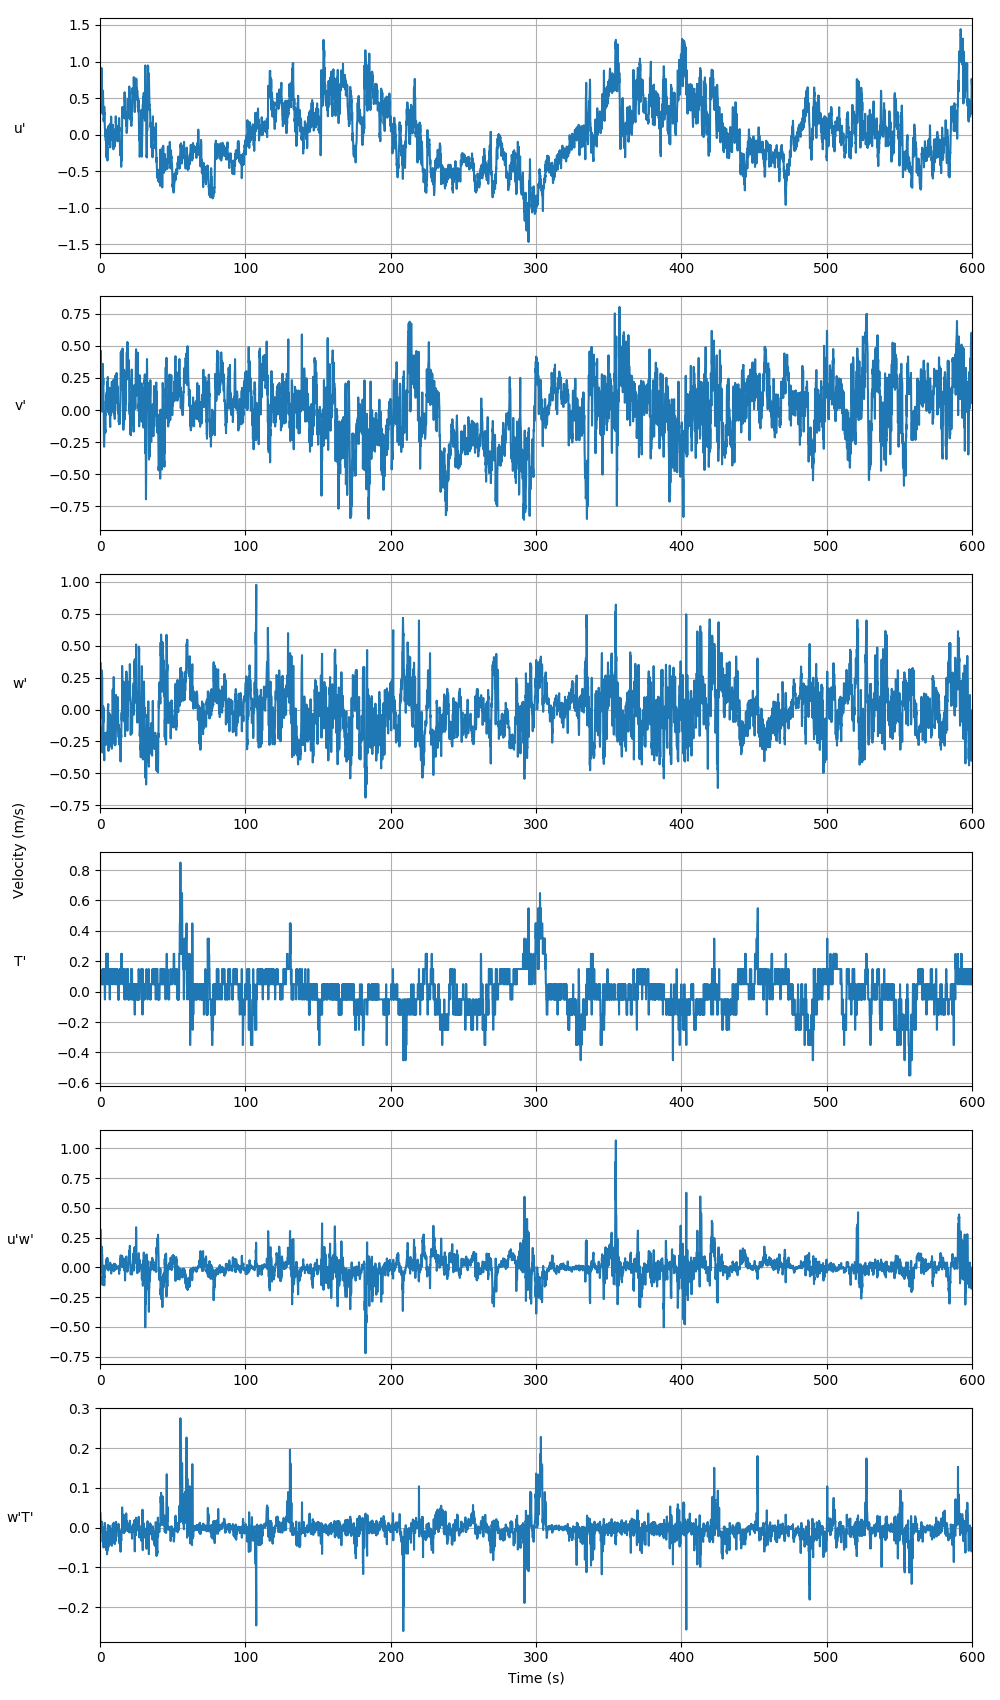
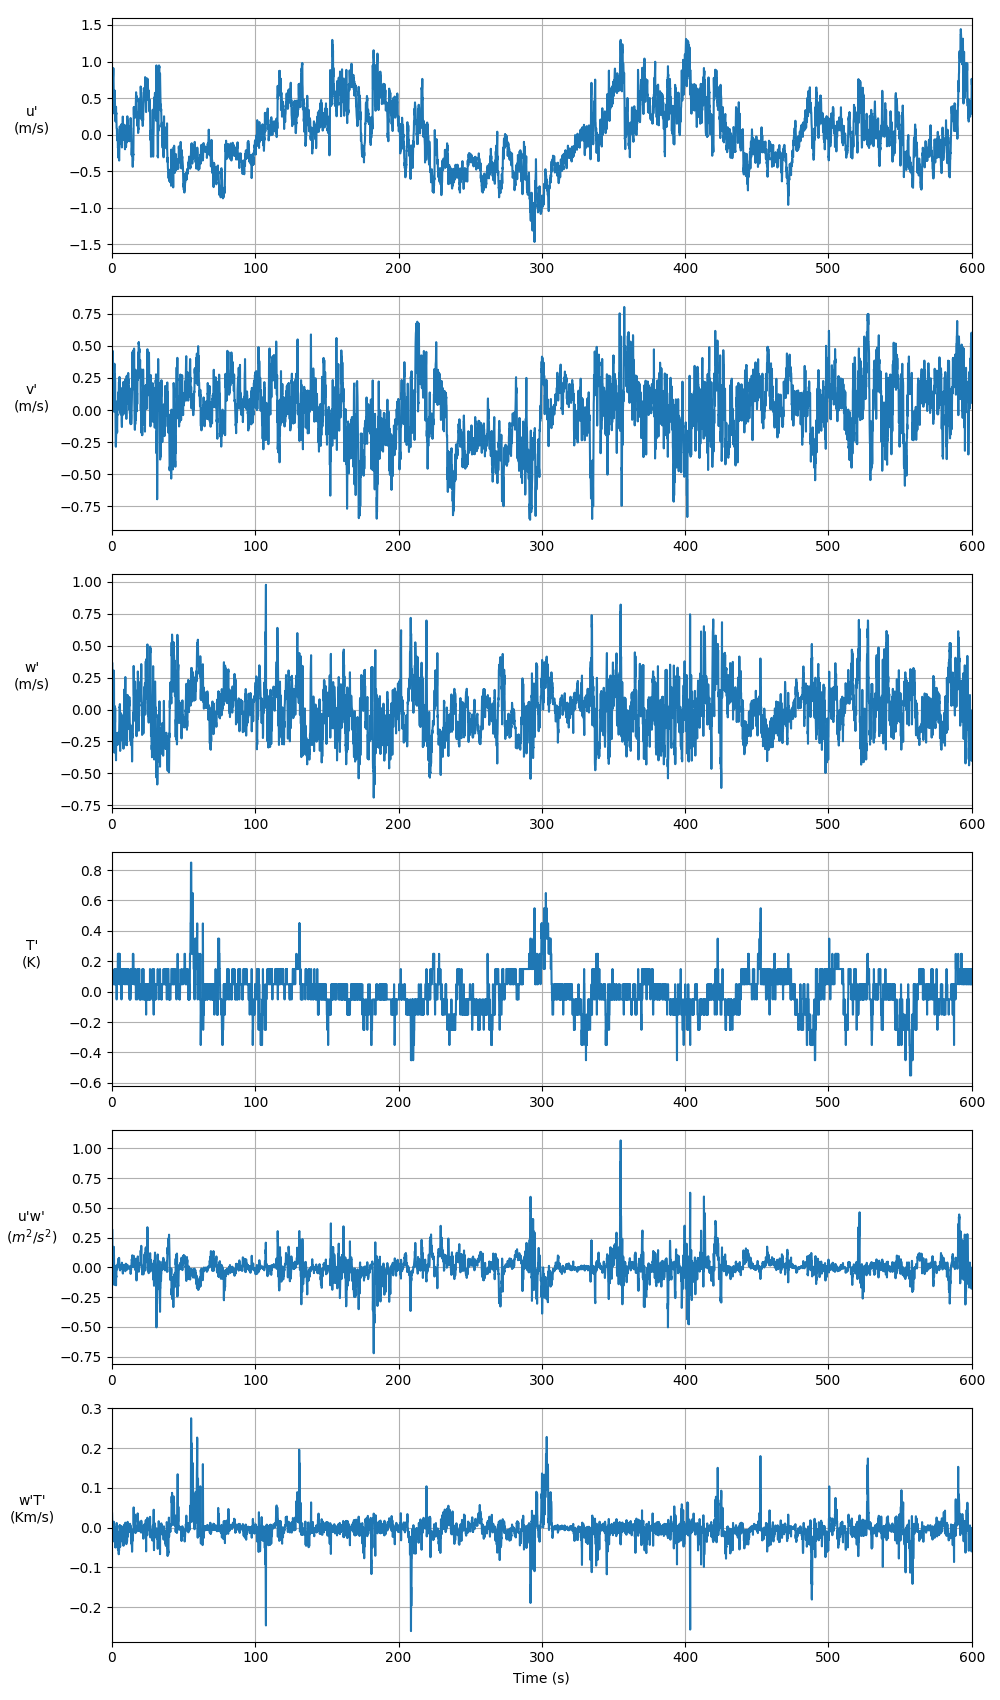
add proper units

diff --git a/analyze_anemometer.py b/analyze_anemometer.py
@@ -56,12 +56,12 @@ def plot(u_dev, v_dev, w_dev, temp_dev, time):
     plot_count = 6
 
     plots = [
-        (u_dev, "u'"),
-        (v_dev, "v'"),
-        (w_dev, "w'"),
-        (temp_dev, "T'"),
-        (u_dev * w_dev, "u'w'"),
-        (w_dev * temp_dev, "w'T'"),
+        (u_dev, "u'\n(m/s)"),
+        (v_dev, "v'\n(m/s)"),
+        (w_dev, "w'\n(m/s)"),
+        (temp_dev, "T'\n(K)"),
+        (u_dev * w_dev, "u'w'\n" + r"$(m^2/s^2)$"),
+        (w_dev * temp_dev, "w'T'\n(Km/s)"),
     ]
 
     # Draw subplots
@@ -79,7 +79,6 @@ def plot(u_dev, v_dev, w_dev, temp_dev, time):
 
     # Add unit
     all_axes[-1].set_xlabel("Time (s)")
-    fig.text(0.02, 0.5, 'Velocity (m/s)', ha='center', va='center', rotation='vertical')
 
     fig.align_ylabels()
     fig.set_tight_layout(True)
